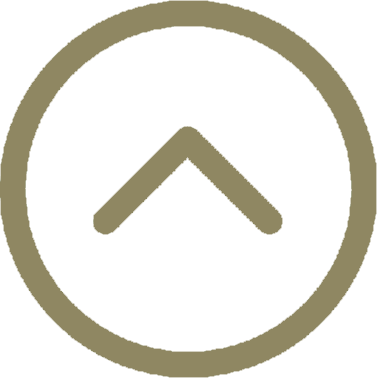
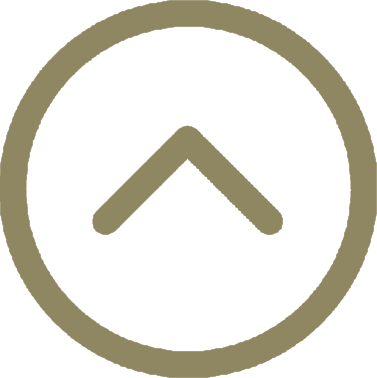
couleurs

diff --git a/src/components/Navbar.js b/src/components/Navbar.js
@@ -5,7 +5,6 @@ import '../components/CSS/Titre.css';
 import Dropdown from './Dropdown';
 import Dropdown2 from './Dropdown2';
 import Dropdown3 from './Dropdown3';
-import Dropdown4 from './Dropdown4';
 import Dropdown5 from './Dropdown5';
 
 function Navbar() {
@@ -13,7 +12,6 @@ function Navbar() {
   const [dropdown, setDropdown] = useState(false);
   const [dropdown2, setDropdown2] = useState(false);
   const [dropdown3, setDropdown3] = useState(false);
-  const [dropdown4, setDropdown4] = useState(false);
   const [dropdown5, setDropdown5] = useState(false);
 
   const handleClick = () => setClick(!click);
@@ -66,21 +64,6 @@ function Navbar() {
       setDropdown3(false);
     }
   };
-  const onMouseEnter4 = () => {
-    if (window.innerWidth < 960) {
-      setDropdown4(false);
-    } else {
-      setDropdown4(true);
-    }
-  };
-
-  const onMouseLeave4 = () => {
-    if (window.innerWidth < 960) {
-      setDropdown4(false);
-    } else {
-      setDropdown4(false);
-    }
-  };
 
   const onMouseEnter5 = () => {
     if (window.innerWidth < 960) {
@@ -107,24 +90,21 @@ function Navbar() {
         <ul className={click ? 'nav-menu active' : 'nav-menu'}>
           <li className='nav-item' onMouseEnter={onMouseEnter5} onMouseLeave={onMouseLeave5}>
             <Link to='/' className='nav-links' onClick={closeMobileMenu}>
-              <p className='text-title2'> Compositions florales
-              <i className='fas fa-caret-down' />
+              <p className='text-title2'> Bouquets ronds
+                <i className='fas fa-caret-down' />
               </p>
             </Link>
             {dropdown5 && <Dropdown5 />}
           </li>
-          <li className='nav-item' onMouseEnter={onMouseEnter4} onMouseLeave={onMouseLeave4}>
-            <Link to='/' className='nav-links' onClick={closeMobileMenu}>
-              <p className='text-title2'>Compositions florales 
-              <i className='fas fa-caret-down' />
-              </p>
+          <li className='nav-item'>
+            <Link to='/les_compositions_piquees' className='nav-links-click' onClick={closeMobileMenu}>
+              <p id='text_hover' className='text-title2'>compositions piquées</p>
             </Link>
-            {dropdown4 && <Dropdown4 />}
           </li>
           <li className='nav-item' onMouseEnter={onMouseEnter3} onMouseLeave={onMouseLeave3}>
             <Link to='/' className='nav-links' onClick={closeMobileMenu}>
               <p className='text-title2'>fêtes
-              <i className='fas fa-caret-down' />
+                <i className='fas fa-caret-down' />
               </p>
             </Link>
             {dropdown3 && <Dropdown3 />}
@@ -132,7 +112,7 @@ function Navbar() {
           <li className='nav-item' onMouseEnter={onMouseEnter} onMouseLeave={onMouseLeave}>
             <Link to='/' className='nav-links' onClick={closeMobileMenu}>
               <p className='text-title2'>événements 
-              <i className='fas fa-caret-down' />
+                <i className='fas fa-caret-down' />
               </p>
             </Link>
             {dropdown && <Dropdown />}
@@ -140,19 +120,19 @@ function Navbar() {
           <li className='nav-item' onMouseEnter={onMouseEnter2} onMouseLeave={onMouseLeave2}>
             <Link to='/' className='nav-links' onClick={closeMobileMenu}>
               <p className='text-title2'>Création originales 
-              <i className='fas fa-caret-down' />
+                <i className='fas fa-caret-down' />
               </p>
             </Link>
             {dropdown2 && <Dropdown2 />}
           </li>
           <li className='nav-item'>
             <Link to='/qui_sommes_nous' className='nav-links-click' onClick={closeMobileMenu}>
-              <p className='text-title2'>qui sommes-nous</p>
+              <p id='text_hover' className='text-title2'>qui sommes-nous</p>
             </Link>
           </li>
           <li className='nav-item'>
             <Link to='/' className='nav-links-click' onClick={closeMobileMenu}>
-              <p className='text-title2'>Accueil</p>
+              <p id='text_hover' className='text-title2'>Accueil</p>
             </Link>
           </li>
         </ul>

diff --git a/src/components/CSS/Accueil.css b/src/components/CSS/Accueil.css
@@ -4,13 +4,18 @@
 }
 
 .Flaura img{
-    outline: 5px double white;
+    outline: 5px solid white;
     outline-offset: -20px;
-    border: 2px solid #8f8762;
+    border: 2px solid #646C4C;
+    margin-top: 100px;
 }
 .Flaura img:hover{
-    outline-offset: -80px;
+    outline-offset: -110px;
     transition: 0.5s ease;
+}
+
+#text_hover:hover{
+    cursor: pointer;
 }
 
 h2 {
@@ -21,7 +26,7 @@ h2 {
 }
 
 .footer {
-    border-top: 3px solid #8f8762;
+    border-top: 3px solid #646C4C;
     margin-top: 900px;
     height: 500px;
     background-color: #ddd4cf;
@@ -58,7 +63,7 @@ h2 {
     content: '';
     flex-grow: 1;
     height: 1px;
-    background-color: #8f8762;
+    background-color: #646C4C;
     margin-top: 20px;
 }
 
@@ -81,7 +86,7 @@ h2 {
     content: '';
     flex-grow: 1;
     height: 1px;
-    background-color: #8f8762;
+    background-color: #646C4C;
     margin-top: 20px;
 }
 
@@ -95,7 +100,7 @@ h2 {
 
 .copyright {
     text-align: center;
-    color: #8f8762;
+    color: #646C4C;
     margin-top: 0px;
 }
 
@@ -104,7 +109,7 @@ h2 {
 }
 
 .vertical-line {
-    border-right: 1px solid #8f8762;
+    border-right: 1px solid #646C4C;
     padding-right: 150px;
     padding-bottom: 100px;
     margin-left: 150px;
@@ -116,7 +121,7 @@ h2 {
 }
 
 .vertical-line::selection {
-    border-right: 1px solid #8f8762;
+    border-right: 1px solid #646C4C;
     padding-right: 150px;
     padding-bottom: 100px;
     margin-left: 150px;
@@ -124,7 +129,7 @@ h2 {
 }
 
 .vertical-line2 {
-    border-right: 1px solid #8f8762;
+    border-right: 1px solid #646C4C;
     padding-bottom: 100px;
     padding-top: 0px;
     padding-right: 80px;
@@ -160,7 +165,7 @@ h2 {
     margin-bottom: -900px;
     margin-top: 900px;
     font-weight: bold;
-    color: #8f8762;
+    color: #646C4C;
     font-size:x-small;
 }
 
@@ -179,12 +184,12 @@ h2 {
 .slider {
     border-radius: 30px;
     border: 1rem solid;
-    border-color: #ddd4cf;
+    border-color: #c2d095;
 }
 
 .carousel {
     margin-bottom: -750px;
-    margin-top: 50px;
+    margin-top: 100px;
 }
 
 @media screen and (max-width:680px) {
@@ -202,14 +207,14 @@ h2 {
     }
 
     .footer {
-        border-top: 3px solid #8f8762;
+        border-top: 3px solid #646C4C;
         margin-top: 900px;
         height: 1000px;
-        background-color: #ddd4cf;
+        background-color: #c2d095;
     }
 
     .vertical-line {
-        border-right: 1px solid #ddd4cf;
+        border-right: 1px solid #c2d095;
         padding-right: 150px;
         padding-bottom: 100px;
         margin-left: 150px;
@@ -217,7 +222,7 @@ h2 {
     }
     
     .vertical-line2 {
-        border-right: 1px solid #ddd4cf;
+        border-right: 1px solid #c2d095;
         padding-bottom: 100px;
         padding-top: 0px;
         padding-right: 80px;

diff --git a/src/components/pages/Accueil.js b/src/components/pages/Accueil.js
@@ -5,22 +5,22 @@ import '../CSS/Titre.css';
 import facebook from '../img/logo-facebook.png';
 import instagram from '../img/logo-instagram.png';
 import tiktok from '../img/logo-tiktok.png';
-import flaura from '../img/bg2.png';
+import flaura from '../img/bg4.png';
 import localisation from '../img/emplacement.png';
 import phone from '../img/telephone.png';
 import horaire from '../img/horaire.png';
 import AliceCarousel from 'react-alice-carousel';
 import "react-alice-carousel/lib/alice-carousel.css";
-import img1 from '../img/accueil.jpg'
-import img2 from '../img/accueil2.jpg'
-import img3 from '../img/accueil3.jpg'
-import img4 from '../img/accueil4.jpg'
-import img5 from '../img/accueil5.jpg'
-import img6 from '../img/accueil6.jpg'
-import img7 from '../img/accueil7.jpg'
-import img8 from '../img/accueil8.jpg'
-import img9 from '../img/accueil9.jpg'
-import img10 from '../img/accueil10.jpg'
+import img1 from '../img/accueil.jpg';
+import img2 from '../img/accueil2.jpg';
+import img3 from '../img/accueil3.jpg';
+import img4 from '../img/accueil4.jpg';
+import img5 from '../img/accueil5.jpg';
+import img6 from '../img/accueil6.jpg';
+import img7 from '../img/accueil7.jpg';
+import img8 from '../img/accueil8.jpg';
+import img9 from '../img/accueil9.jpg';
+import img10 from '../img/accueil10.jpg';
 
 export default function Accueil() {
   return (
@@ -31,7 +31,7 @@ export default function Accueil() {
         </div>
         <div className='centre'>
           <div className='carousel'>
-            <AliceCarousel autoPlay autoPlayInterval="8000" disableDotsControls disableButtonsControls infinite="true">
+            <AliceCarousel autoPlay autoPlayInterval="5000" disableDotsControls disableButtonsControls infinite="true">
               <img src={img1} width={500} height={600} className="slider" alt="" />
               <img src={img2} width={500} height={600} className="slider" alt="" />
               <img src={img3} width={500} height={600} className="slider" alt="" />

diff --git a/src/components/CSS/Article.css b/src/components/CSS/Article.css
@@ -59,7 +59,30 @@ main {
 
 .ancre img:hover {
     border: 5px solid white;
-    background: #ddd4cf;
+    background: #c2d095;
     border-radius: 50px;
     transition: 0.5s;
 } 
+
+@media screen and (max-width: 960px) {
+    .article {
+        border: none;
+        border-radius: 10px;
+        padding: 10px;
+        height: 200px;
+        width: 150px;
+        overflow: hidden;
+    }
+    
+    .article2 {
+        padding: 10px;
+        height: 200px;
+        width: 150px;
+        overflow: hidden;
+    }
+
+    main{
+        padding: 0;
+        grid-template-columns: repeat(auto-fit, minmax(100px, 1fr));
+    }
+}

diff --git a/src/components/CSS/Navbar.css b/src/components/CSS/Navbar.css
@@ -125,7 +125,7 @@
     }
 
     .nav-links:hover {
-        background-color: #ddd4cf;
+        background-color: #c2d095;
         border-radius: 0;
     }
 
@@ -158,7 +158,7 @@
         margin: 2rem auto;
         border-radius: 4px;
         width: 80%;
-        background: #ddd4cf;
+        background: #c2d095;
         text-decoration: none;
         color: #fff;
         font-size: 1.5rem;
@@ -166,7 +166,7 @@
 
     .nav-links-mobile:hover {
         background: #fff;
-        color: #ddd4cf;
+        color: #c2d095;
         transition: 250ms;
     }
 

diff --git a/src/components/CSS/Ancre_personnaliser.css b/src/components/CSS/Ancre_personnaliser.css
@@ -2,7 +2,7 @@
     margin-left: 50px;
     color: #8f8762;
     font-family: cursive;
-    text-shadow: 2px 4px 3px #ddd4cf;
+    text-shadow: 2px 4px 3px #c2d095;
     font-weight: bold;
     text-decoration: underline;
     text-underline-offset: 10px;
@@ -14,7 +14,7 @@
     margin-left: 50px;
     color: #8f8762;
     font-family: cursive;
-    text-shadow: 2px 4px 3px #ddd4cf;
+    text-shadow: 2px 4px 3px #c2d095;
     font-weight: bold;
     text-underline-offset: 2px;
     -webkit-transform: scale(1.5);

diff --git a/src/components/pages/Voir_tout_fetes.js b/src/components/pages/Voir_tout_fetes.js
@@ -68,7 +68,7 @@ import fleche from '../img/fleche.png';
 export default function Voir_tout_fetes() {
   return (
     <div>
-      <h1 className='text-title3' id='top'>tous les bouquets de fêtes</h1>
+      <h1 className='text-title3' id='top'>bouquets de fêtes</h1>
         <div className="ancre_personnalise_centre">
           <a className="ancre_personnalise" href="#halloween_ancre">
             Halloween

diff --git a/src/components/CSS/Titre.css b/src/components/CSS/Titre.css
@@ -18,14 +18,14 @@ h1{
 
 /* Handle */
 ::-webkit-scrollbar-thumb {
-    background: #ddd4cf;
+    background: #c2d095;
     border-radius: 10px;
-    border: 3px solid #8f8762;
+    border: 3px solid #646C4C;
 }
 
 /* Handle on hover */
 ::-webkit-scrollbar-thumb:hover {
-    background: #ddd4cfbc;
+    background: #c2d095;
 }
 
 .text-title::selection{

diff --git a/src/components/CSS/Dropdown.css b/src/components/CSS/Dropdown.css
@@ -76,7 +76,7 @@
         text-decoration: none;
         color: #8f8762;
         padding: 12px;
-        text-shadow: 2px 4px 3px #ddd4cf;
+        text-shadow: 2px 4px 3px #c2d095;
         z-index: 1;
     }
 }
